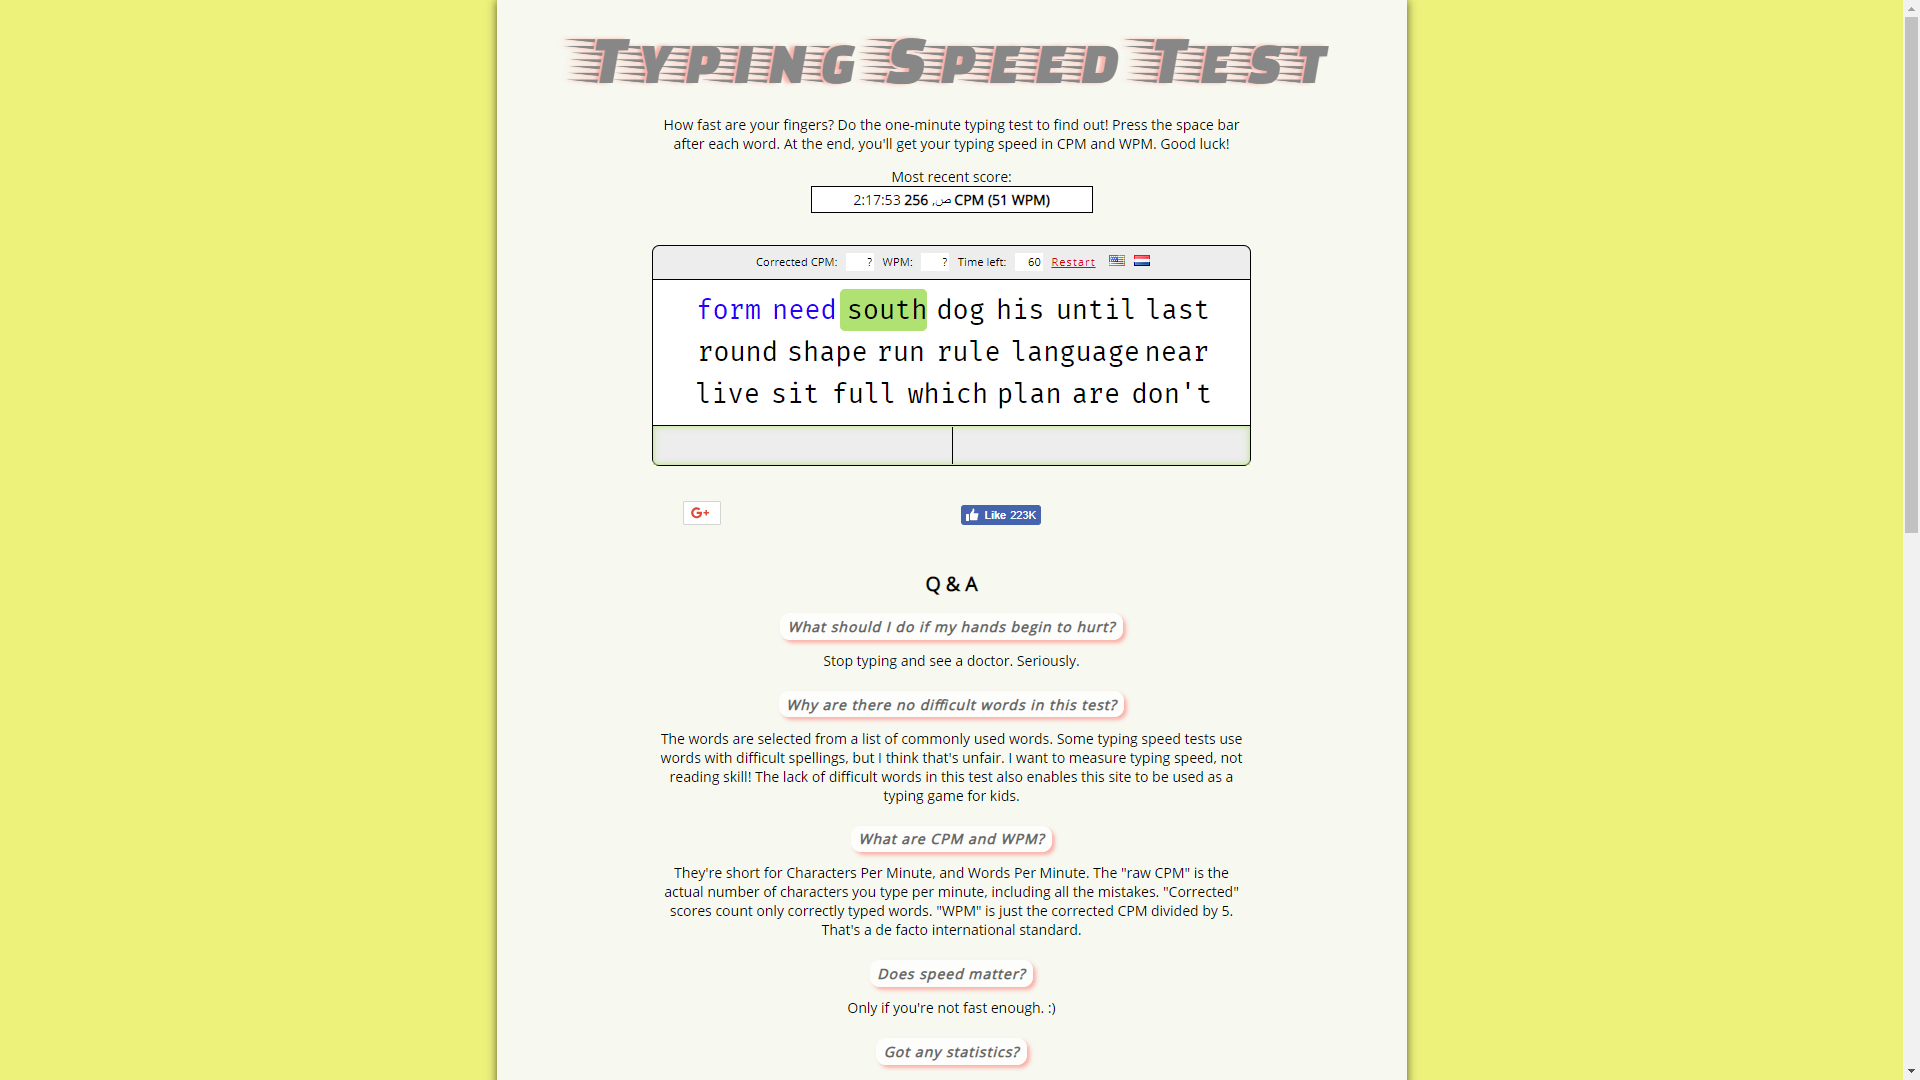
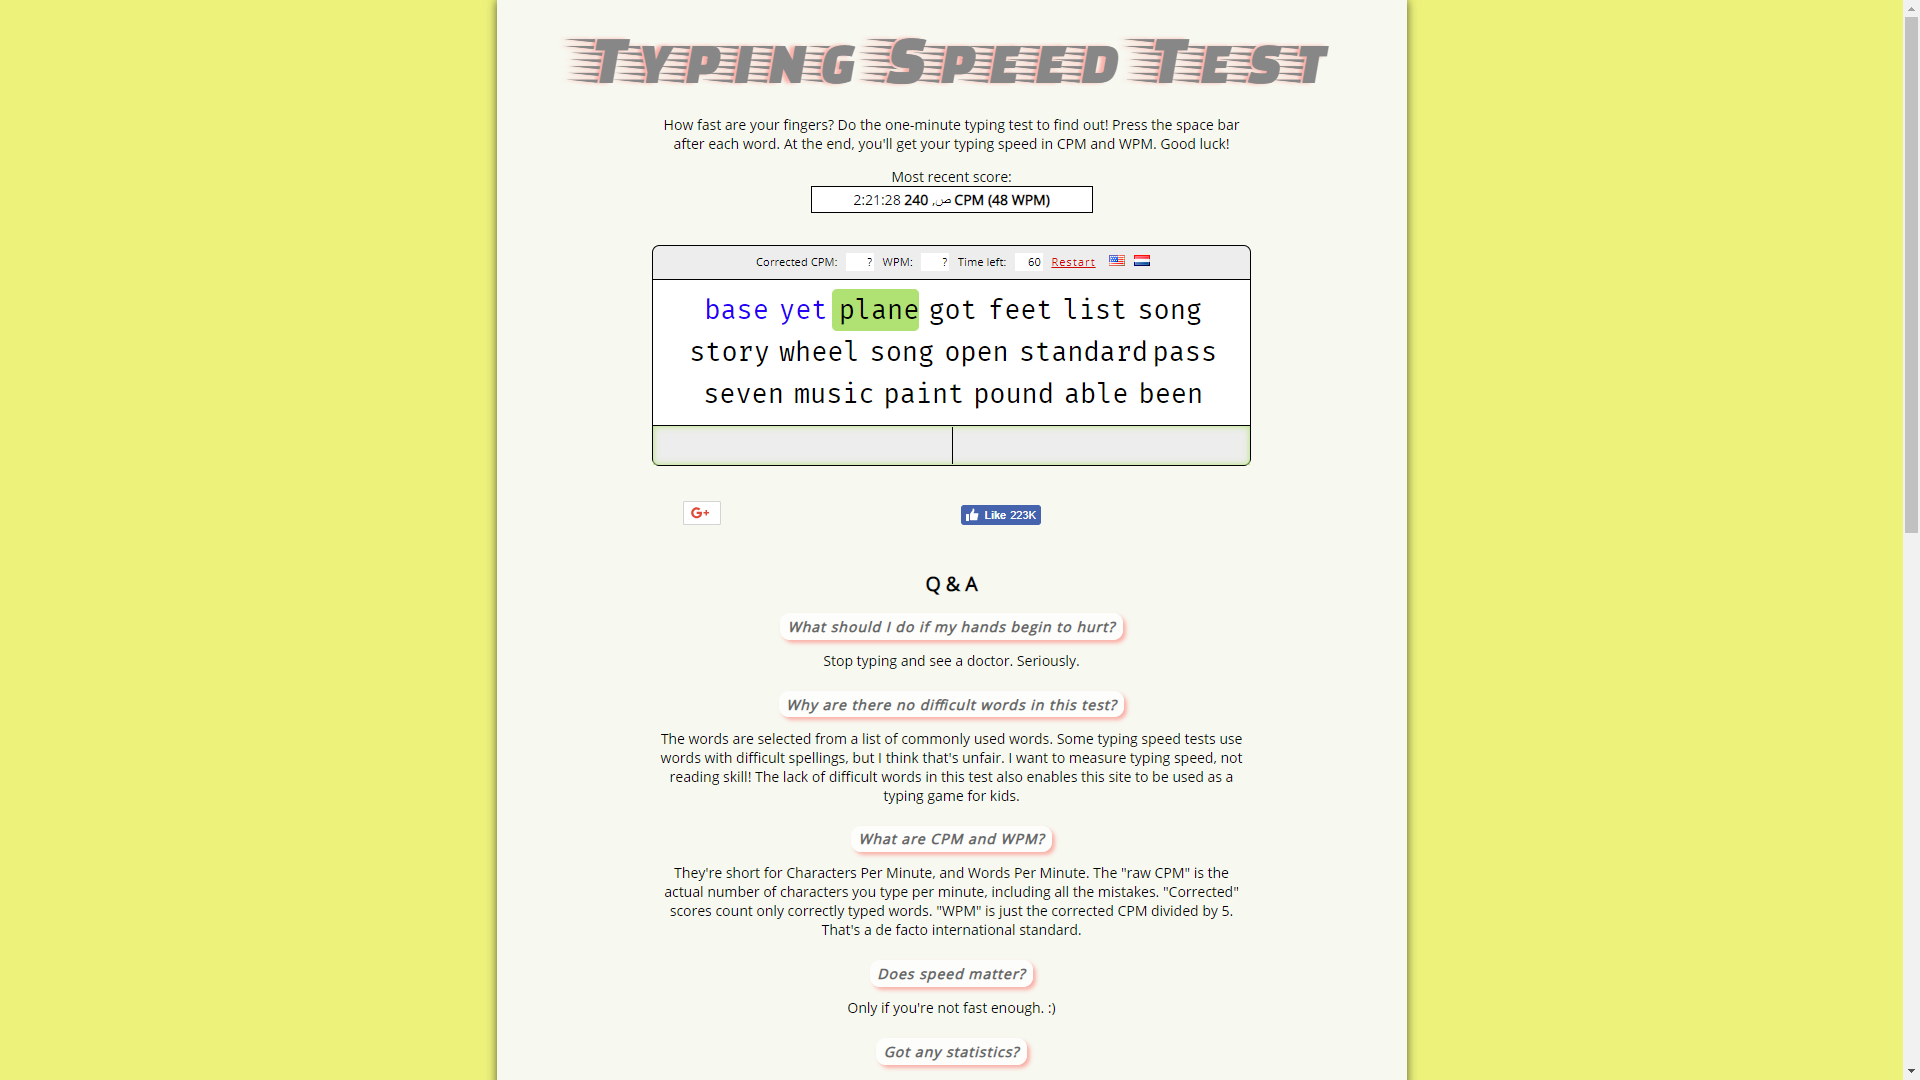
.

Changed region(s): [[0.3438, 0.275, 0.625, 0.3972]]

diff --git a/index.js b/index.js
@@ -6,22 +6,16 @@ const puppeteer = require('puppeteer');
   await page.setViewport({height: 1080, width: 1920});
   await page.goto('https://typing-speed-test.aoeu.eu/');
 
-
-  let firstWord = await page.evaluate((sel) => {
-    return document.querySelector('#currentword').textContent
-  });
   await page.click('#all-inner > .testui > #border > #wordsbox > #input');
-  await page.keyboard.type(firstWord);
-  await page.keyboard.press('Space');
 
-  await page.waitFor(30);
-
-  let secondWord = await page.evaluate((sel) => {
-    return document.querySelector('#currentword').textContent
-  });
-  await page.click('#all-inner > .testui > #border > #wordsbox > #input');
-  await page.keyboard.type(secondWord);
-  await page.keyboard.press('Space');
+  while (true) {
+    let word = await page.evaluate((sel) => {
+      return document.querySelector('#currentword').textContent
+    });
+    await page.keyboard.type(word);
+    await page.keyboard.press('Space');
+    await page.waitFor(10);
+  }
 
   await page.screenshot({path: 'files/typing.png'});
   await browser.close();
